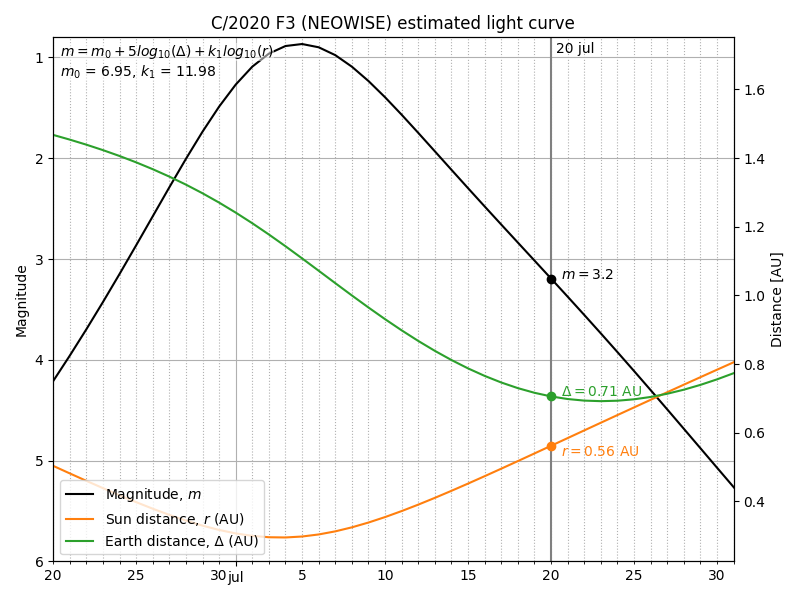
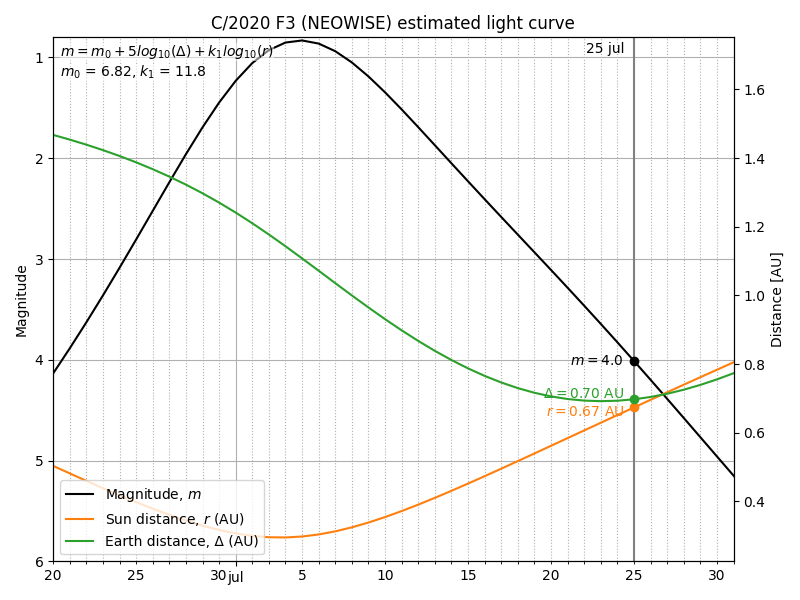
Update light curvr 25 Jul

diff --git a/light_curve.py b/light_curve.py
@@ -18,9 +18,9 @@ data_fname = "horizons_C2020F3NEOWISE.txt"
 # Δ: comet-Earth distance, AU
 # r: comet-Sun distance, AU
 # Source: http://astro.vanbuitenen.nl/comet/2020F3
-# Updated 20 jul
-m0 = 6.95
-k1 = 11.98
+# Updated 25 jul
+m0 = 6.82
+k1 = 11.80
 def get_magnitude(r, D):
   return m0 + 5*log10(D) + k1*log10(r)
 
@@ -61,13 +61,13 @@ now_D = Ds[i]
 plt.figure(figsize=(8,6))
 
 plt.axvline(dates[i], color="0.5")
-plt.annotate(dates[i].strftime("%d %b").lstrip("0"), xy=(now_date, 0.97), xycoords=("data", "axes fraction"), xytext=(5, 0), textcoords="offset pixels")
+plt.annotate(dates[i].strftime("%d %b").lstrip("0"), xy=(now_date, 0.97), xycoords=("data", "axes fraction"), ha="right", xytext=(-10, 0), textcoords="offset pixels")
 
 ln1, = plt.plot(dates, mags, color="k", label="Magnitude, $m$")
 ax1 = plt.gca()
 
 plt.scatter([now_date], [now_mag], color="k", zorder=10)
-plt.annotate("$m=${:.1f}".format(now_mag), xy=(now_date, now_mag), xytext=(10, 0), textcoords="offset pixels")
+plt.annotate("$m=${:.1f}".format(now_mag), xy=(now_date, now_mag), ha="right", va="center", xytext=(-10, 0), textcoords="offset pixels")
 
 plt.xlim(datetime(2020,6,20), datetime(2020,7,31))
 plt.ylim(6, 0.8)
@@ -89,12 +89,12 @@ ax2 = plt.gca().twinx()
 color = "C1"
 ln2, = ax2.plot(dates, rs, color=color, label="Sun distance, $r$ (AU)")
 plt.scatter([now_date], [now_r], zorder=10, color=color)
-plt.annotate("$r=${:.2f} AU".format(now_r), xy=(now_date, now_r), xytext=(10, -10), textcoords="offset pixels", color=color)
+plt.annotate("$r=${:.2f} AU".format(now_r), xy=(now_date, now_r), ha="right", va="center", xytext=(-10, -5), textcoords="offset pixels", color=color)
 
 color = "C2"
 ln3, = ax2.plot(dates, Ds, color=color, label="Earth distance, Δ (AU)")
 plt.scatter([now_date], [now_D], zorder=10, color=color)
-plt.annotate("$Δ=${:.2f} AU".format(now_D), xy=(now_date, now_D), xytext=(10, 0), textcoords="offset pixels", color=color)
+plt.annotate("$Δ=${:.2f} AU".format(now_D), xy=(now_date, now_D), ha="right", va="center", xytext=(-10, 5), textcoords="offset pixels", color=color)
 
 plt.ylabel("Distance [AU]")
 
